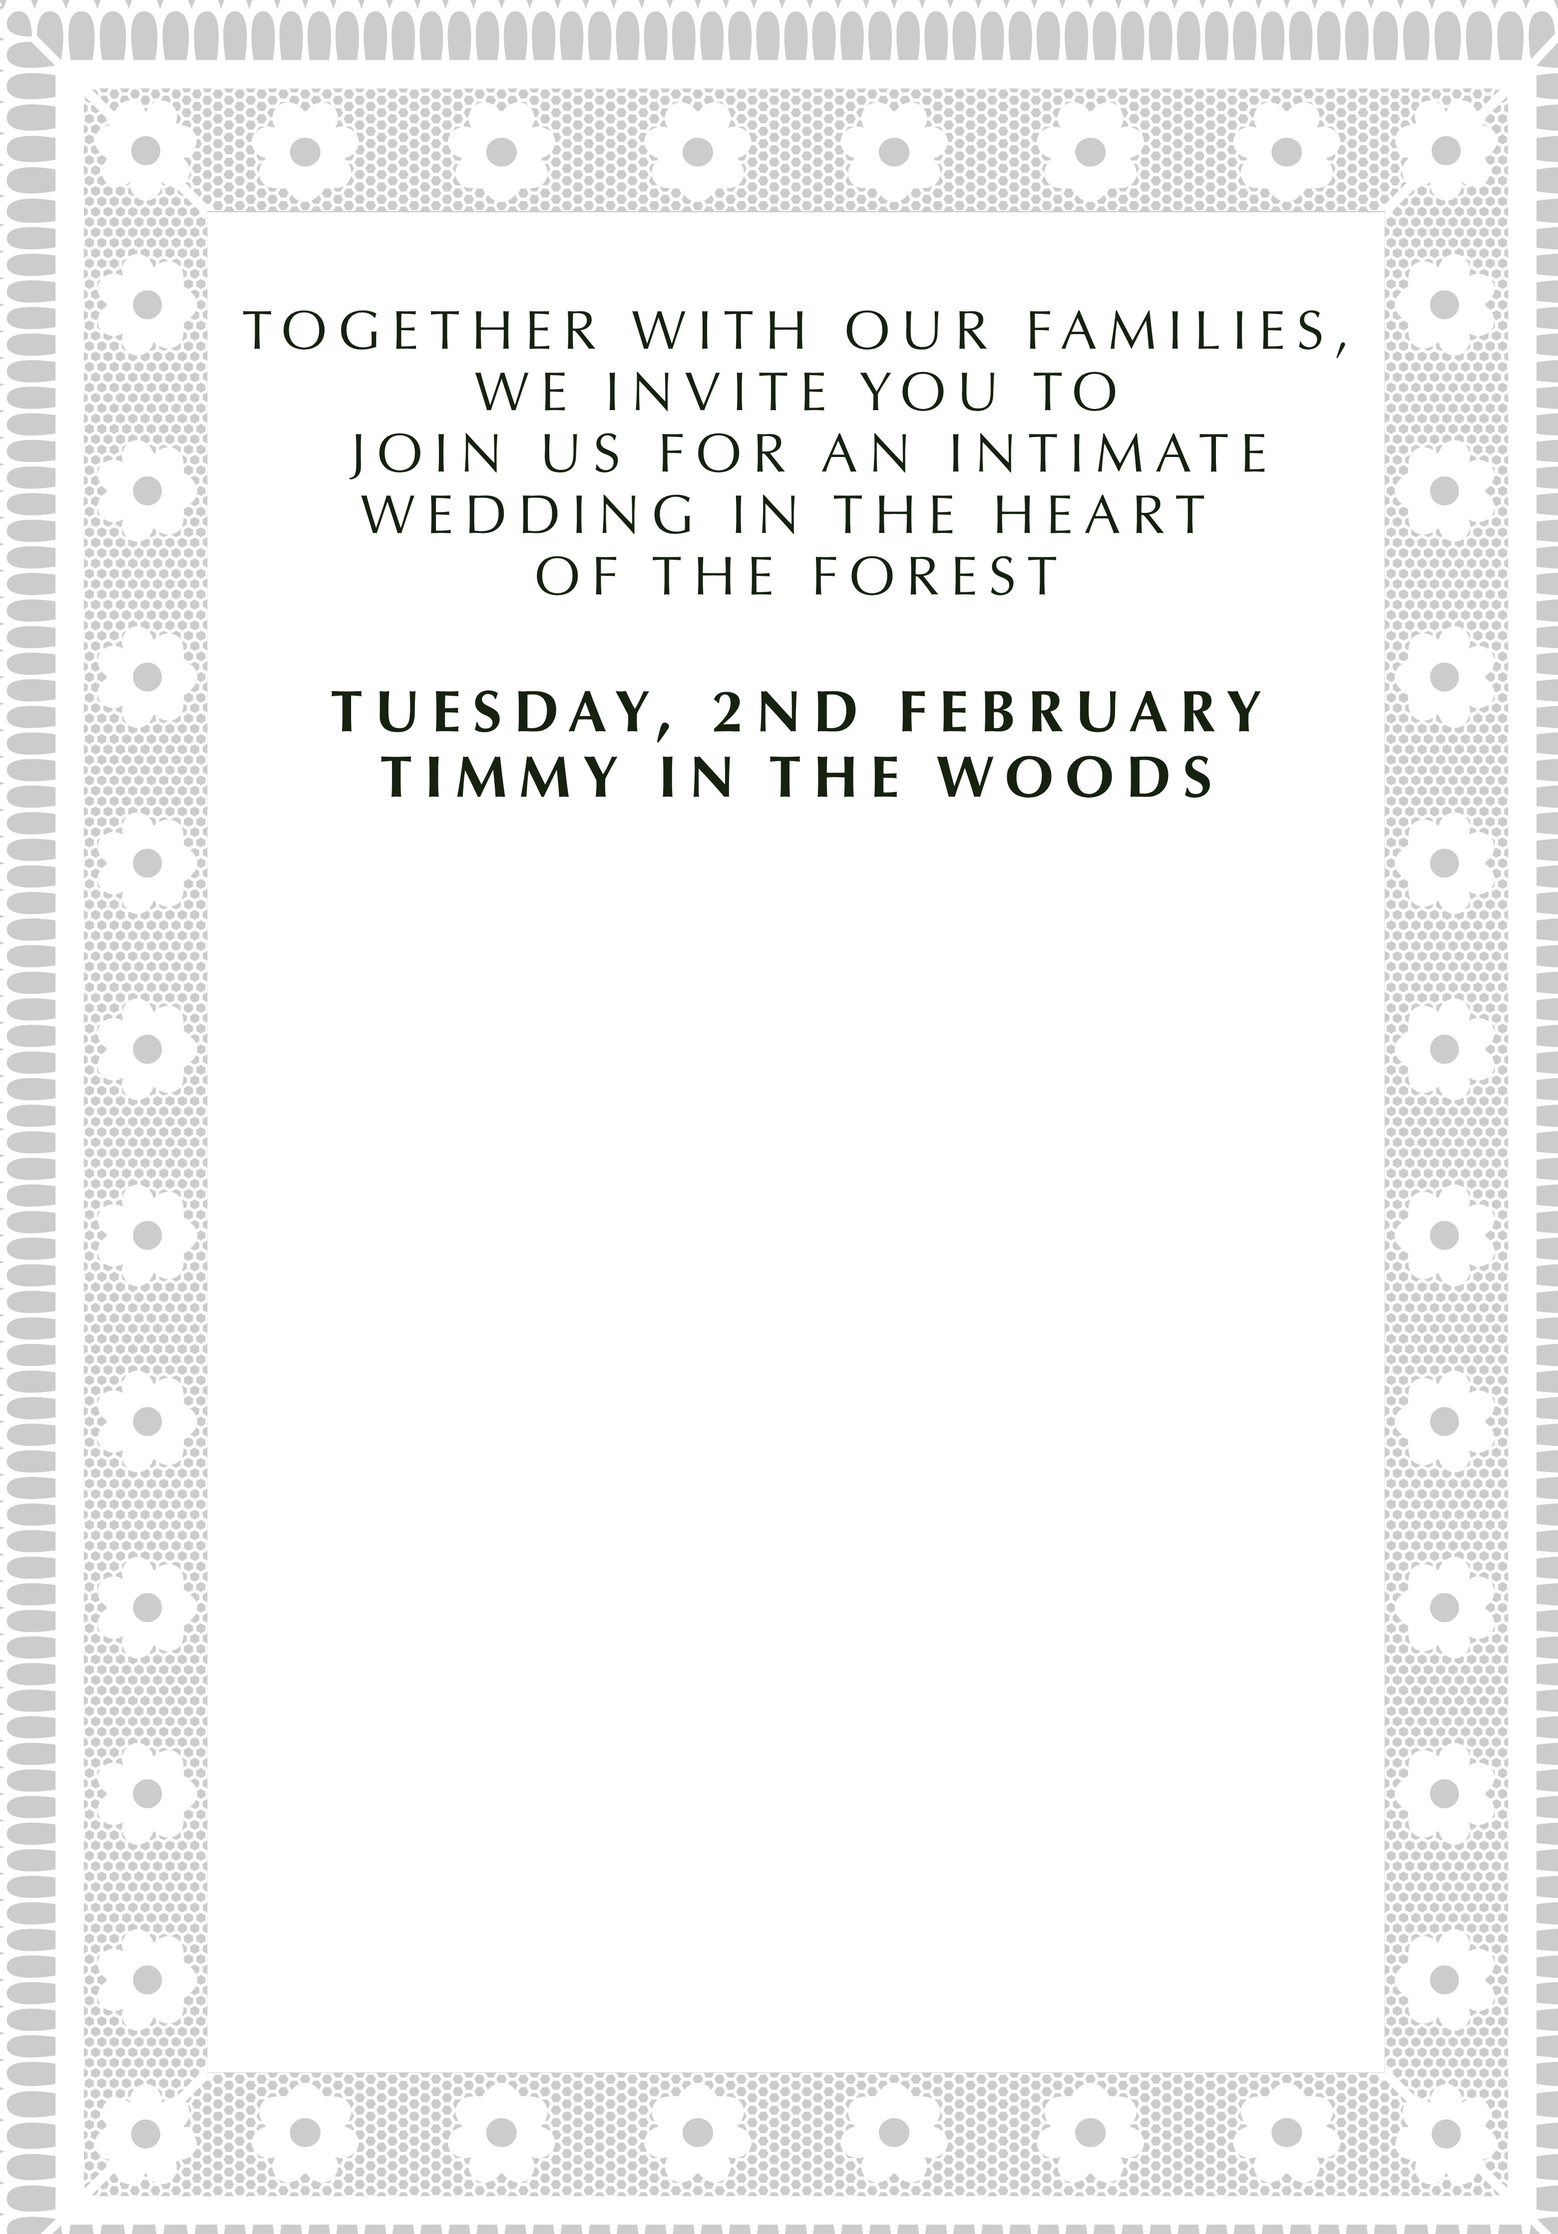
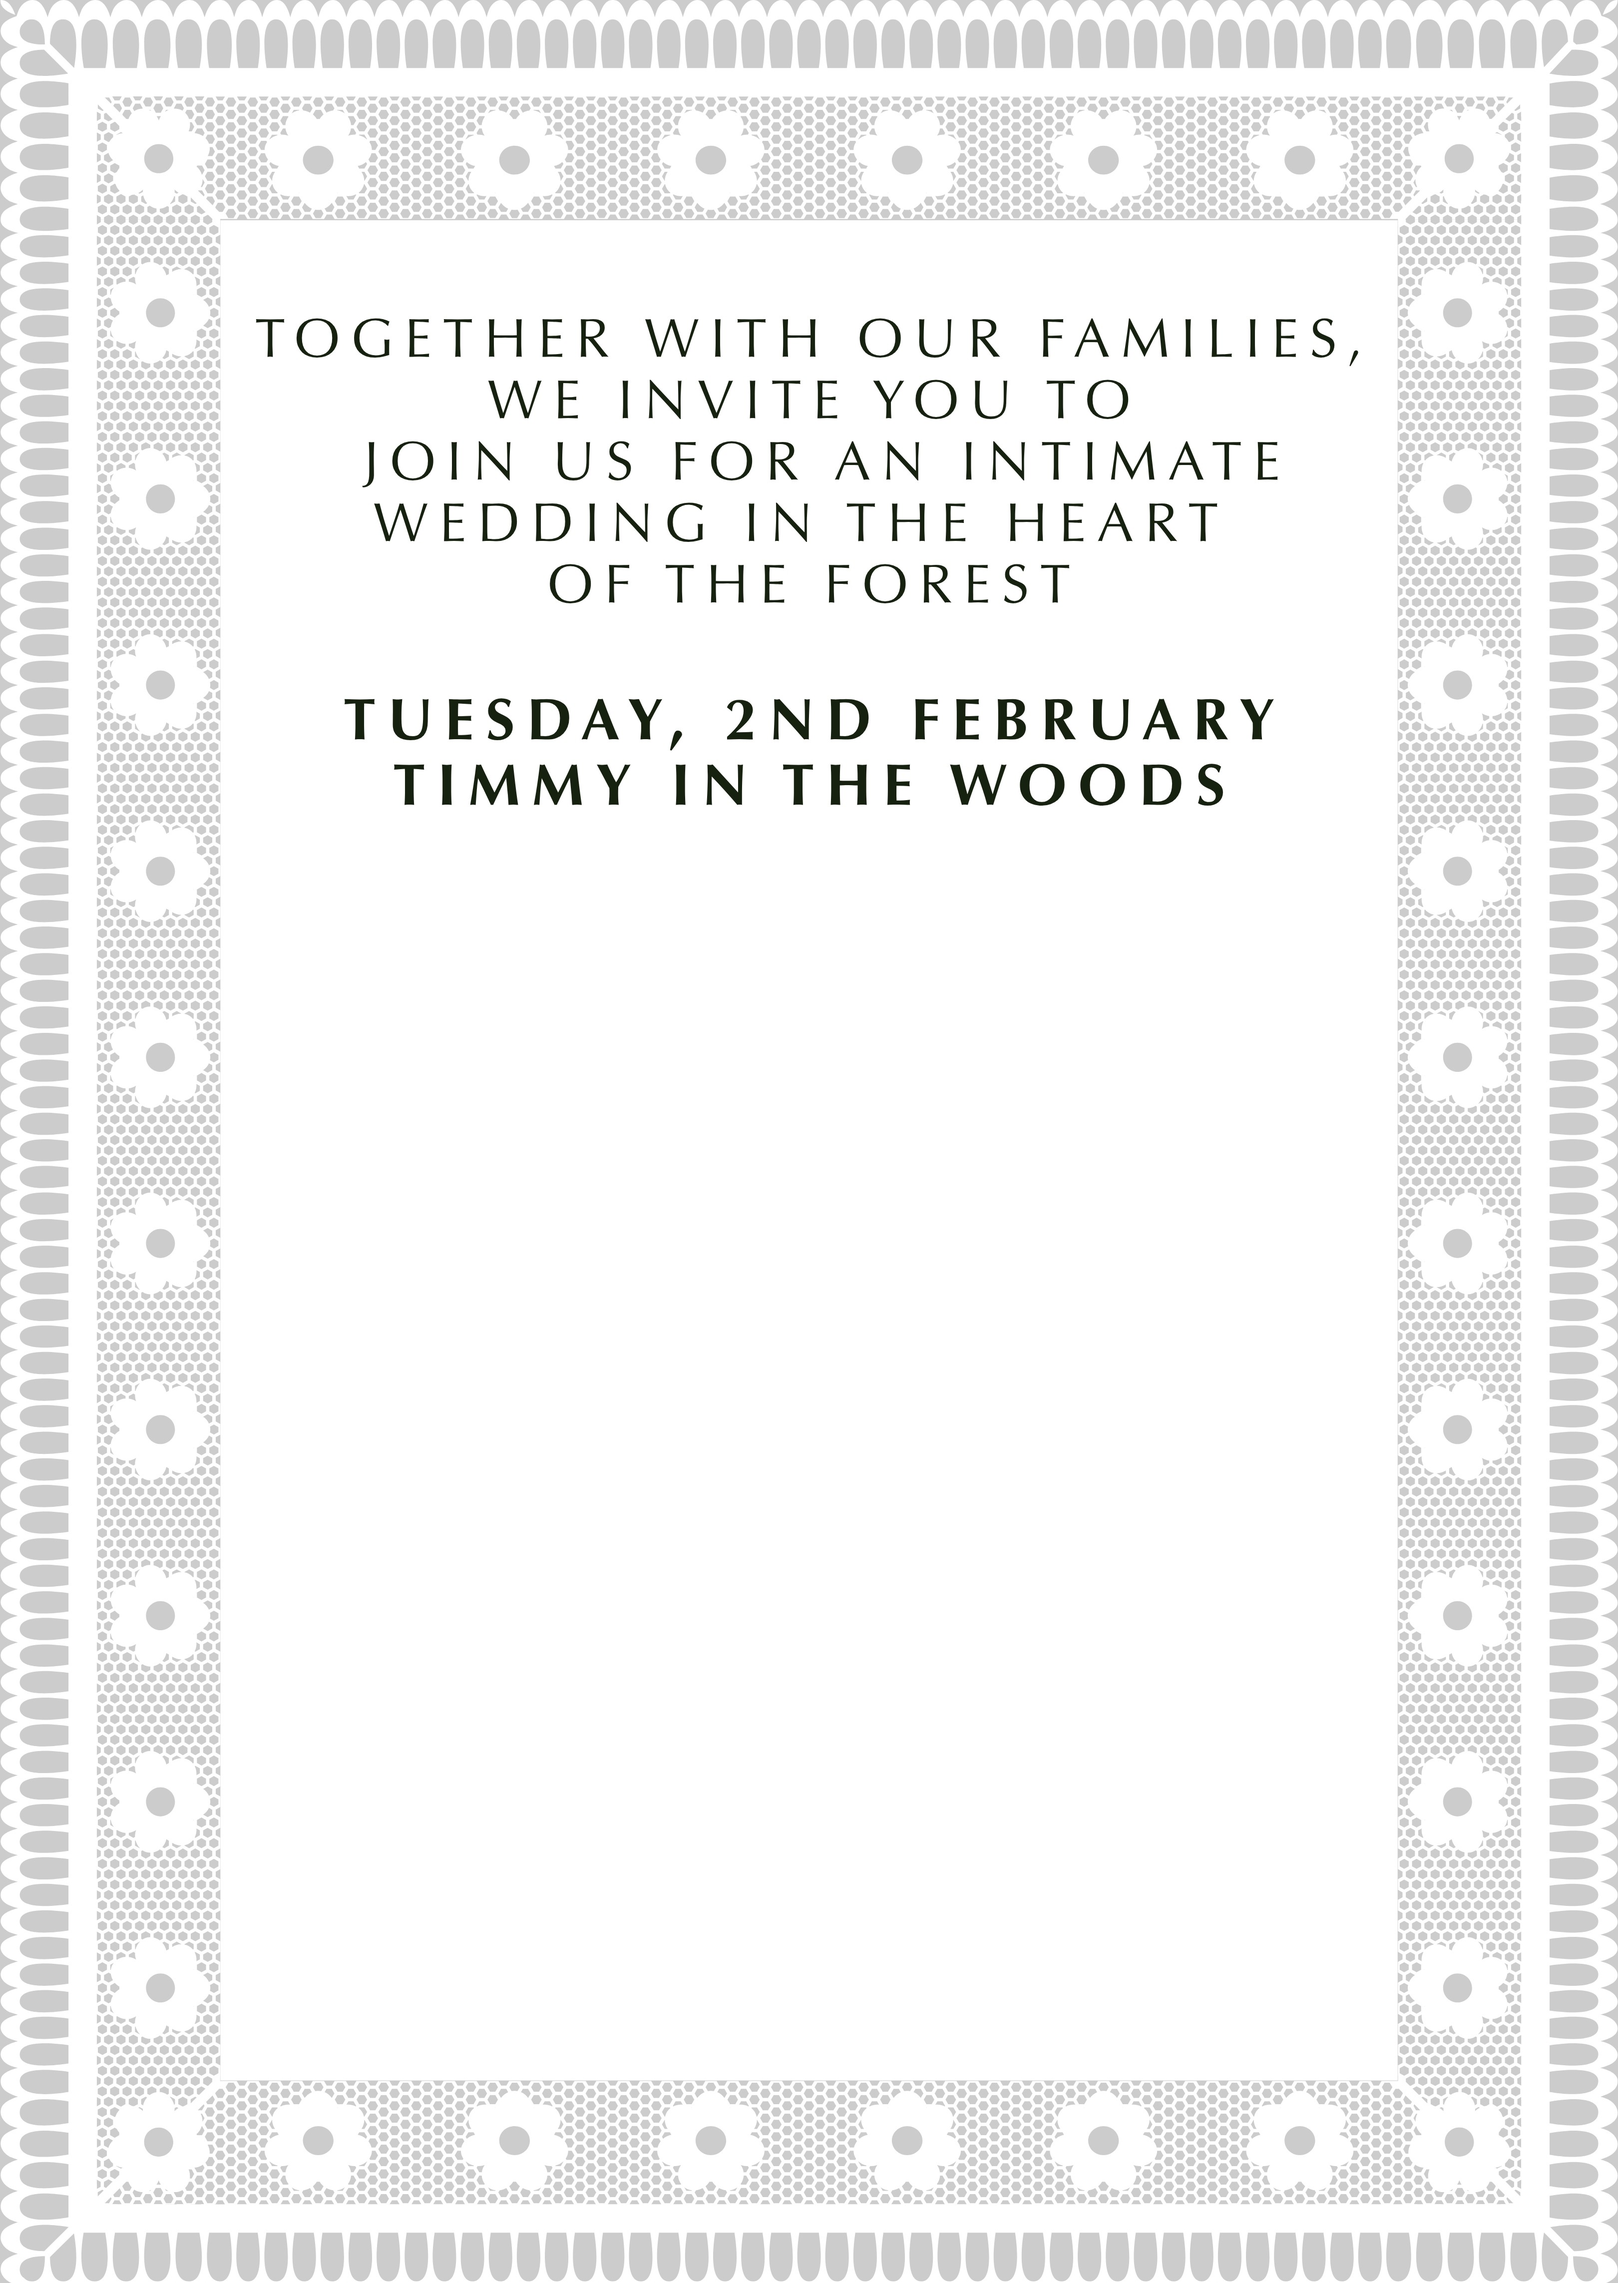
Add files via upload

Changed region(s): [[0.0, 0.0, 1.0, 1.0], [0.2487, 0.3108, 0.8083, 0.3729]]

diff --git a/assets/js/main.js b/assets/js/main.js
@@ -1483,8 +1483,8 @@
 
   function glide(t){ return t * t * t * (t * (t * 6 - 15) + 10); }
 
-  var MSG_TOP = 0.1385;
-  var MSG_BOT = 0.3571;
+  var MSG_TOP = 0.1396;
+  var MSG_BOT = 0.3527;
 
   var V_APEX = 0.4239;
   var V_SLOPE = 0.8778;
@@ -1557,7 +1557,18 @@
     var floor = Math.max(apex0 + (vh + 60 - apex0) * 2,
                          r.top - dy + r.height * k + 120);
 
-    var total = ZOOM + SETTLE + SCROLL;
+    /* Where the grown letter's lower edge comes to rest, and how far it has
+       to travel for that edge to reach the top of the screen. The pages are
+       sent off from exactly that edge and given the same distance and the
+       same easing, so the foot of the letter and the head of the first page
+       stay touching the whole way up: one long sheet, not two. */
+    var foot = r.top - dy + r.height * k;
+    var lift = foot - sr.top;
+    if (!(lift > vh)) lift = vh;
+    var run = Math.round(SCROLL * Math.min(1.5, Math.max(1, lift / vh * 0.62)));
+
+    var total = ZOOM + SETTLE + run;
+    FADE = total + 160;
     var ease  = bezier(EASE[0], EASE[1], EASE[2], EASE[3]);
 
     var frames = [];
@@ -1572,14 +1583,7 @@
         scale = k;
       } else {
         scale = k;
-        y = -vh * ease((t - ZOOM - SETTLE) / SCROLL);
-      }
-      /* On its way up the letter is let go of, so the paper below is not met
-         with a hard edge but with the letter thinning away into it. */
-      var dim = 1;
-      if (t > ZOOM + SETTLE){
-        dim = 1 - ((t - ZOOM - SETTLE) / SCROLL) * 1.45;
-        if (dim < 0) dim = 0;
+        y = -lift * ease((t - ZOOM - SETTLE) / run);
       }
 
       var cut = glide(Math.min(1, t / CLIP));
@@ -1589,7 +1593,6 @@
       scene.push({ transform: move });
       frames.push({
         transform: move,
-        opacity: dim.toFixed(3),
         clipPath: 'polygon(' + lx.toFixed(0) + 'px -' + (r.height * 2).toFixed(0) + 'px, ' +
                   rx.toFixed(0) + 'px -' + (r.height * 2).toFixed(0) + 'px, ' +
                   rx.toFixed(0) + 'px ' + local(right0, sill, cut, scale, rise) + 'px, ' +
@@ -1607,8 +1610,8 @@
     }
 
     suite.animate(
-      [{ transform: 'translateY(' + vh + 'px)' }, { transform: 'none' }],
-      { duration: SCROLL, delay: ZOOM + SETTLE, fill: 'backwards',
+      [{ transform: 'translateY(' + lift.toFixed(1) + 'px)' }, { transform: 'none' }],
+      { duration: run, delay: ZOOM + SETTLE, fill: 'backwards',
         easing: 'cubic-bezier(' + EASE.join(',') + ')' }
     );
     return fly;
@@ -1636,9 +1639,12 @@
         document.documentElement.classList.remove('is-arriving');
       }
 
+      /* The envelope is let go of while the letter is still growing. By the
+         time the letter fills the screen there is nothing left beside it,
+         so its edges are the only edges in sight. */
       var bowOut = window.setTimeout(function(){
         overture.classList.add('is-fading');
-      }, calm ? 0 : Math.round(ZOOM + SETTLE + SCROLL * 0.42));
+      }, calm ? 0 : Math.round(ZOOM * 0.66));
 
       function dropEarly(){
         overture.classList.add('is-quick', 'is-fading');

diff --git a/index.html b/index.html
@@ -42,7 +42,7 @@
 
 <link rel="preload" href="assets/fonts/lato-400.woff2" as="font" type="font/woff2" crossorigin>
 <link rel="stylesheet" href="assets/css/reset.css?v=25">
-<link rel="stylesheet" href="assets/css/style.css?v=100">
+<link rel="stylesheet" href="assets/css/style.css?v=101">
 <script>
 (function(){
   var asked = /(^|[?&])open=1(&|$)/.test(location.search);
@@ -73,10 +73,10 @@
       <div class="card-slot" aria-hidden="true">
         <div class="env-card">
           <picture>
-            <source srcset="assets/img/card-sheet.webp?v=2" type="image/webp">
-            <img class="card-sheet" src="assets/img/card-sheet.jpg?v=2"
+            <source srcset="assets/img/card-sheet.webp?v=3" type="image/webp">
+            <img class="card-sheet" src="assets/img/card-sheet.jpg?v=3"
                  alt="Together with our families, we invite you to join us for an intimate wedding in the heart of the forest. Tuesday, 2nd February, Timmy in the Woods."
-                 width="3120" height="4473">
+                 width="3240" height="4571">
           </picture>
         </div>
       </div>
@@ -725,6 +725,6 @@
   </svg>
 </button>
 
-<script src="assets/js/main.js?v=66"></script>
+<script src="assets/js/main.js?v=68"></script>
 </body>
 </html>

diff --git a/photos.html b/photos.html
@@ -27,7 +27,7 @@
 
 <link rel="preload" href="assets/fonts/lato-400.woff2" as="font" type="font/woff2" crossorigin>
 <link rel="stylesheet" href="assets/css/reset.css?v=25">
-<link rel="stylesheet" href="assets/css/style.css?v=100">
+<link rel="stylesheet" href="assets/css/style.css?v=101">
 </head>
 <body class="is-wall">
 
@@ -111,6 +111,6 @@
   </svg>
 </button>
 
-<script src="assets/js/main.js?v=66"></script>
+<script src="assets/js/main.js?v=68"></script>
 </body>
 </html>

diff --git a/assets/css/style.css b/assets/css/style.css
@@ -209,7 +209,7 @@ html.is-arriving{ overflow:hidden; }
 .env-card{
 
   position:absolute; bottom:-16.86cqw; left:32.65%; width:33.8%;
-  aspect-ratio:2080/2982;
+  aspect-ratio:3240/4571;
   transform-origin:50% 0;
   transition:transform 2.1s cubic-bezier(.42,.02,.2,1) 1.25s;
 }
